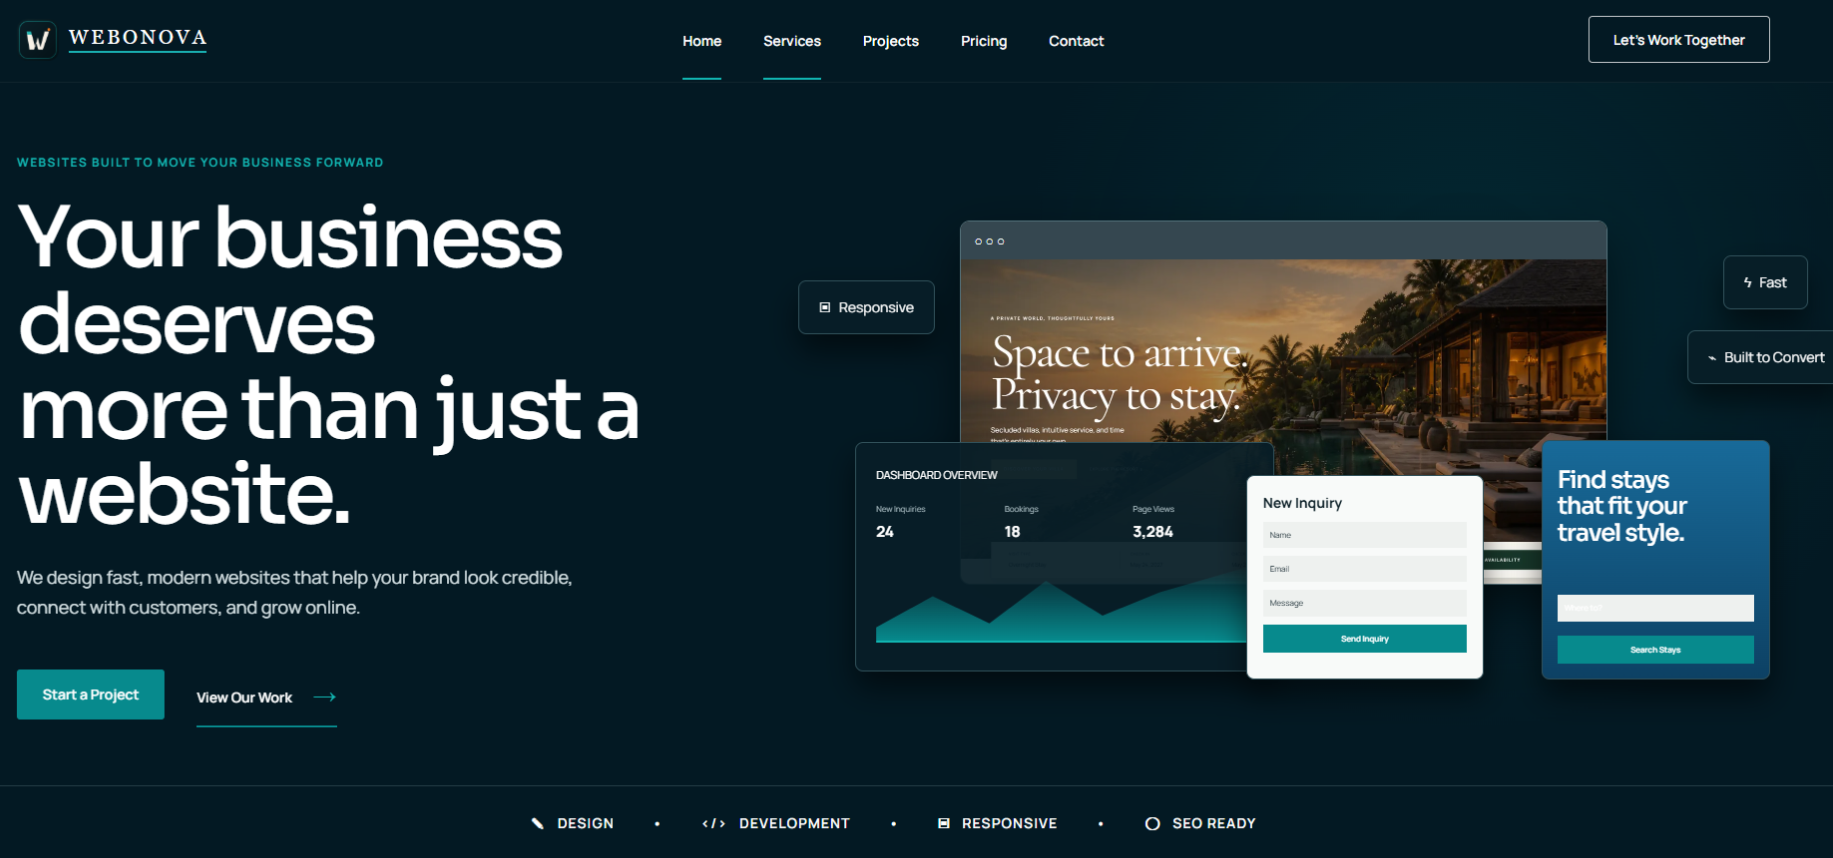
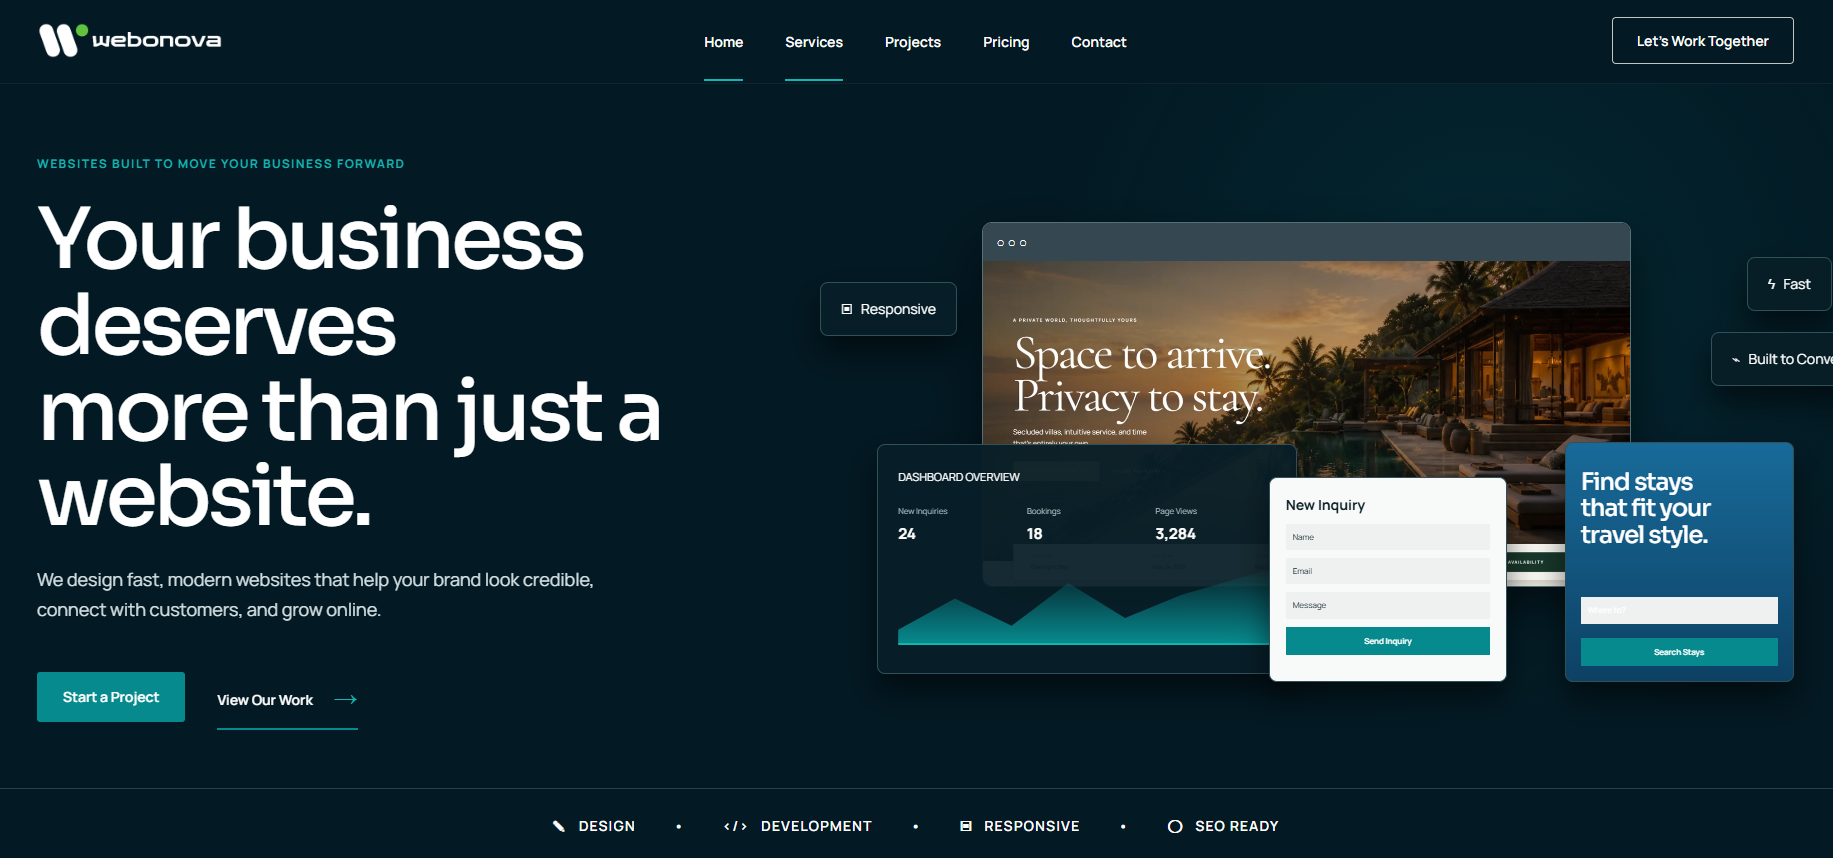
changed webonova ss

diff --git a/app/components/SelectedWork.vue b/app/components/SelectedWork.vue
@@ -24,7 +24,7 @@ const previewProjects = projects.filter((project) =>
       <div class="flex flex-col justify-center p-7 sm:p-10">
         <h3 class="text-3xl font-semibold">Webonova</h3>
         <p class="mt-2 text-sm text-orange">
-          Current Company · Web Design &amp; Development
+          Web Design &amp; Development
         </p>
         <p class="mt-7 text-xl leading-8 text-slate-300">
           Modern websites for ambitious businesses.

diff --git a/app/pages/work.vue b/app/pages/work.vue
@@ -137,7 +137,7 @@ useHead({
               <p
                 class="text-[10px] font-bold uppercase tracking-wide text-orange"
               >
-                CURRENT COMPANY · WEB DESIGN &amp; DEVELOPMENT
+                WEB DESIGN &amp; DEVELOPMENT
               </p>
               <h2 class="mt-4 text-4xl font-semibold">Webonova</h2>
               <p class="mt-6 text-2xl leading-8 text-slate-300">
